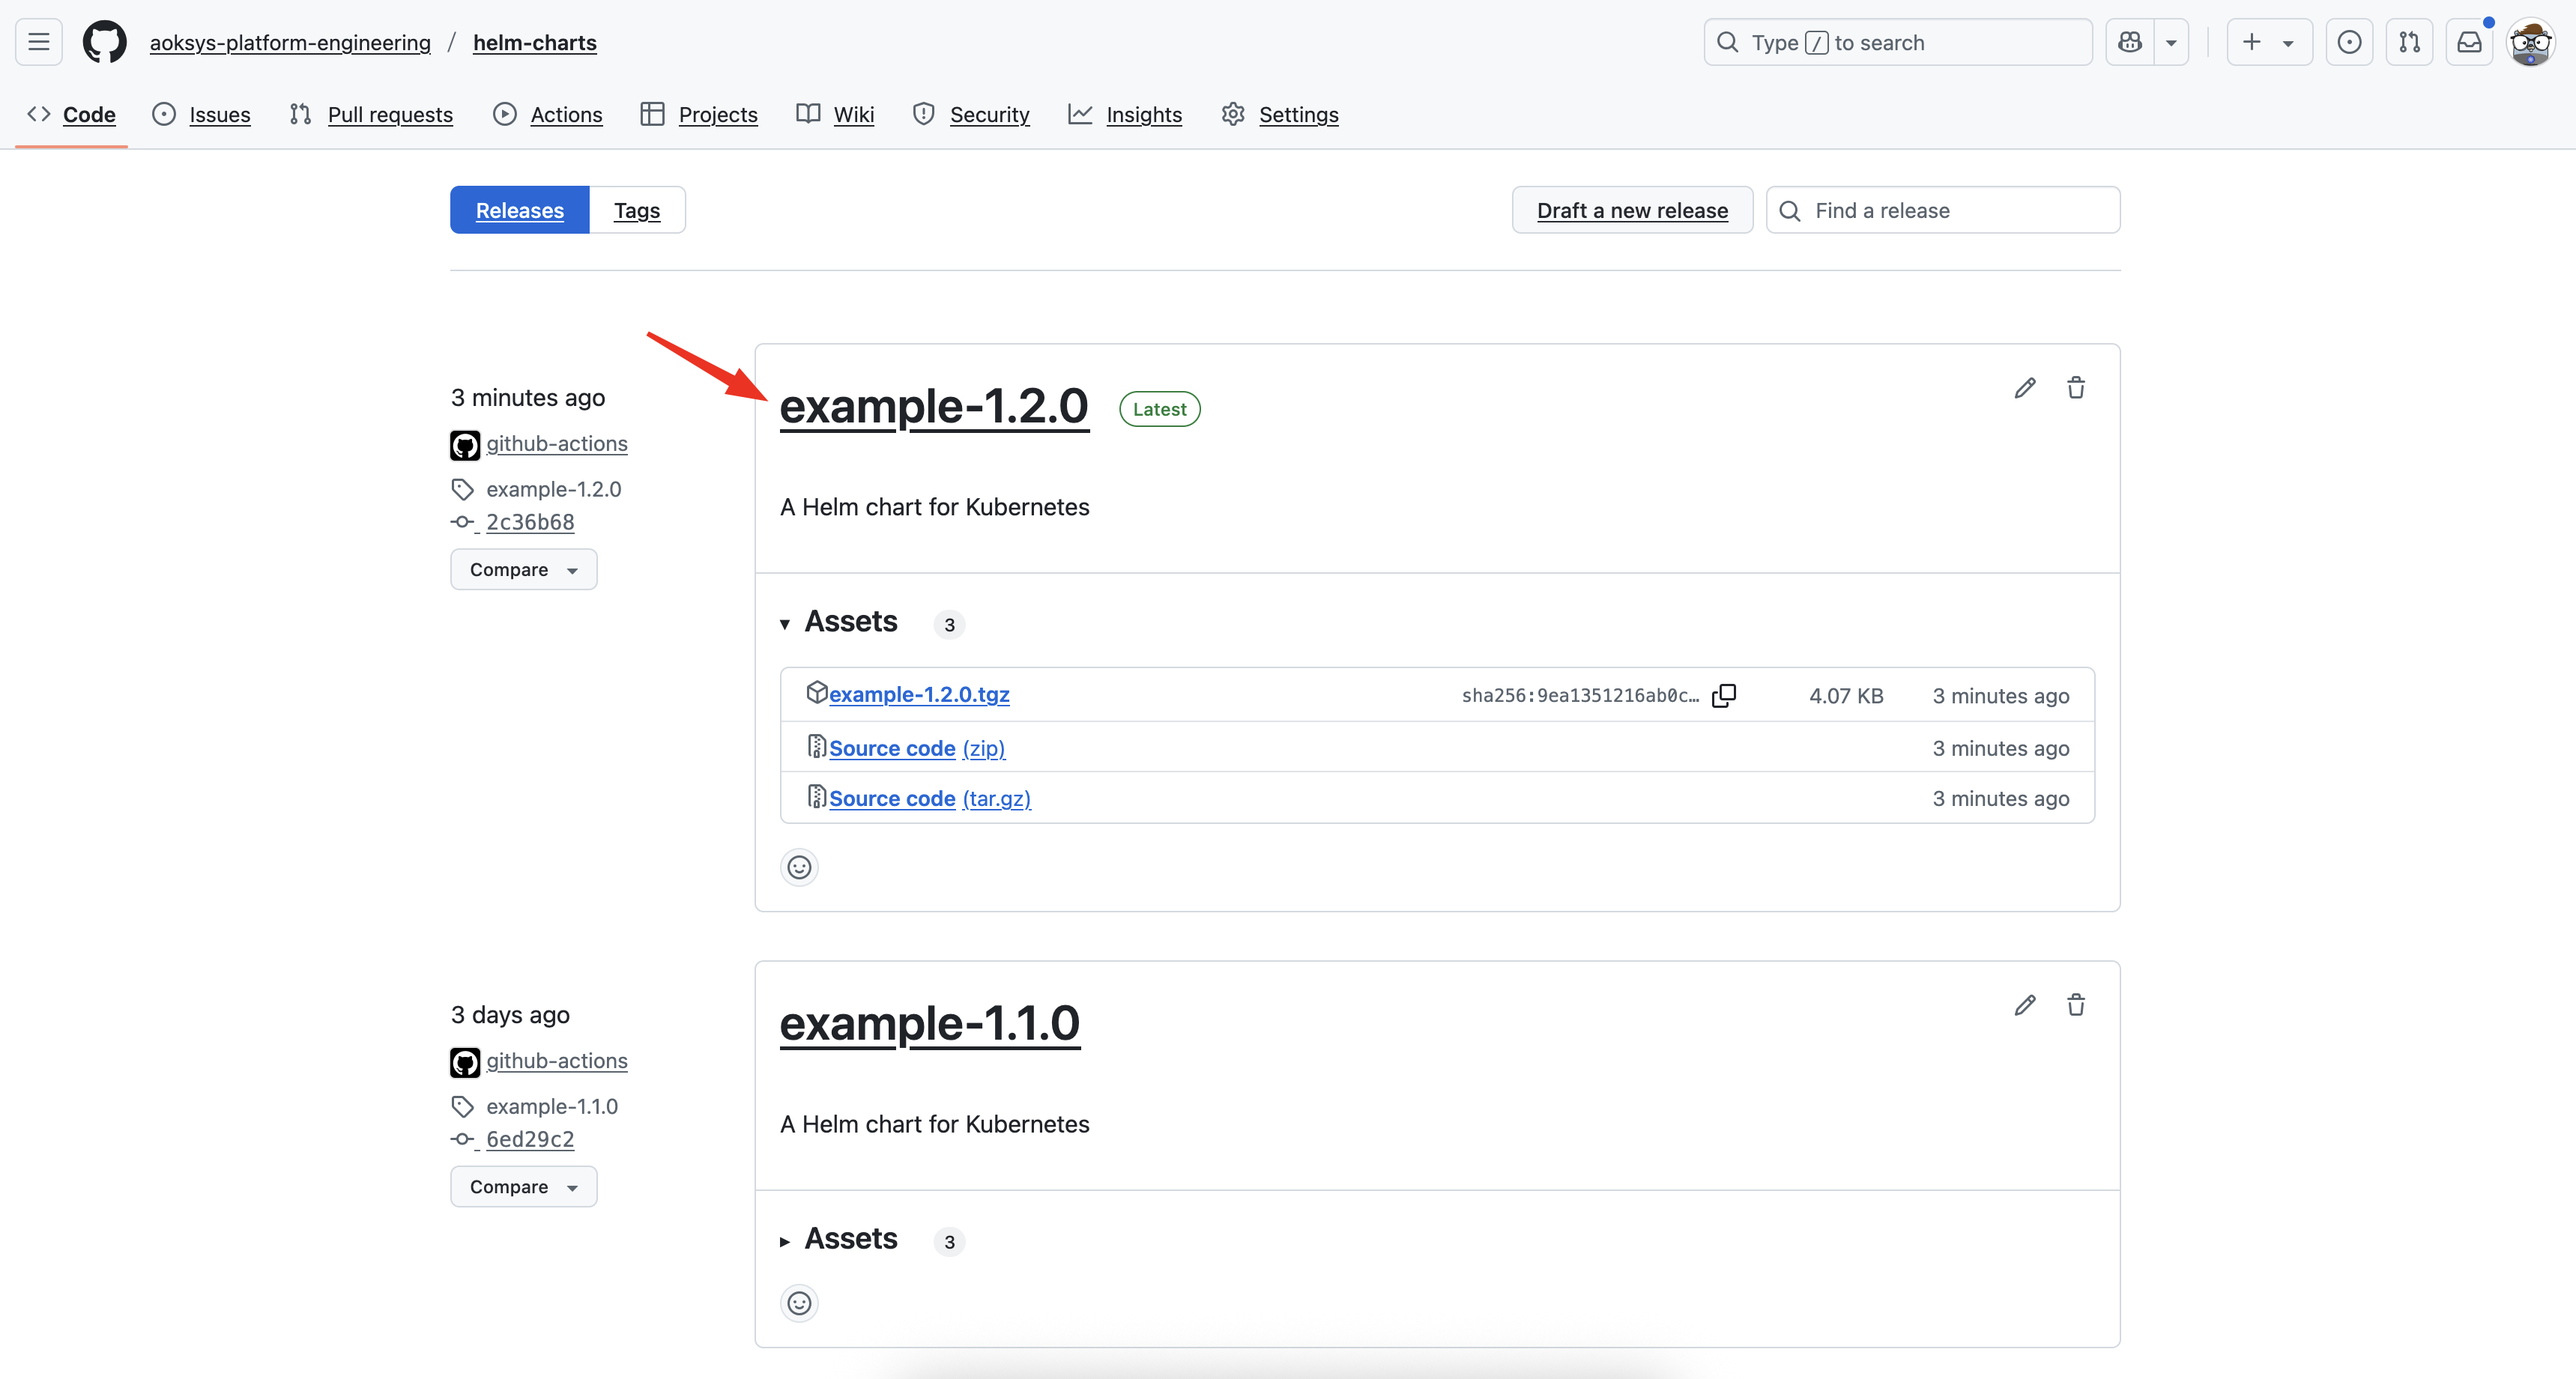
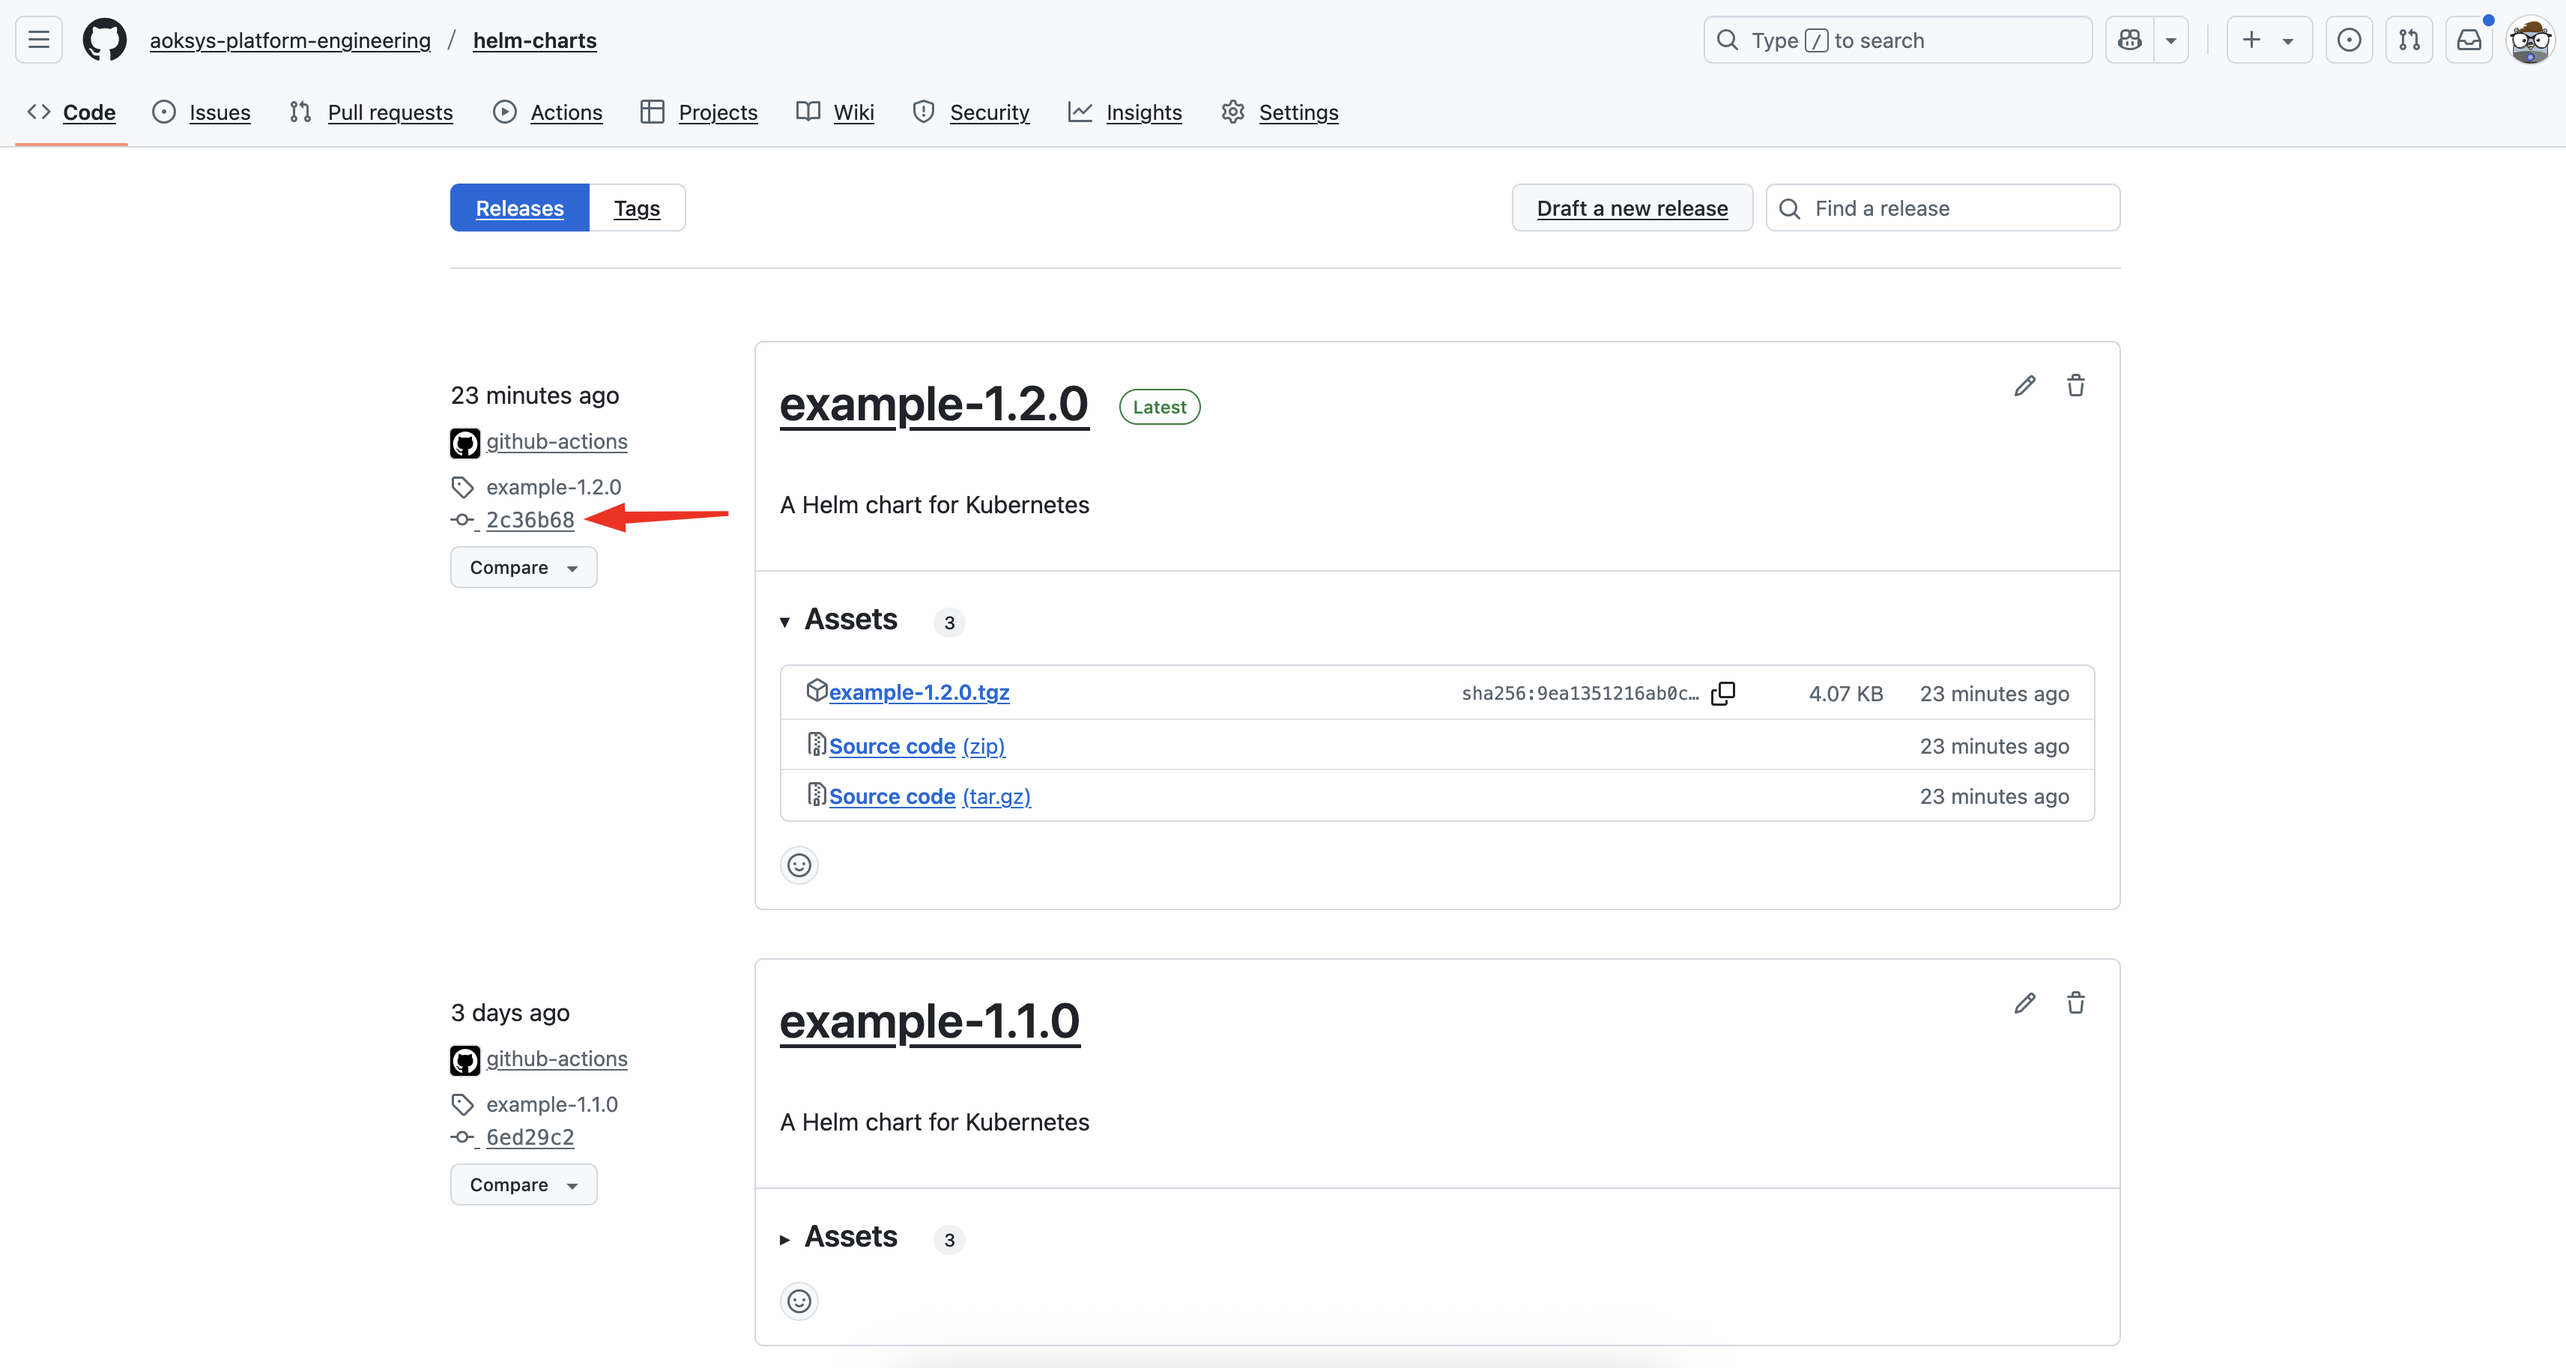
update README and rm superflous images

diff --git a/README.md b/README.md
@@ -29,14 +29,10 @@ To see those changes, click on the ``Releases`` tab:
 
 <img src="images/diff-releases-1.jpg" alt="" style="border: 1px solid black; border-radius: 4px;">
 
-Then click on a specific release:
+Then click on the commit for a specific release:
 
 <img src="images/diff-releases-2.jpg" alt="" style="border: 1px solid black; border-radius: 4px;">
 
-Next, click on the commit for that release:
+And finally, view the diffs for that release:
 
 <img src="images/diff-releases-3.jpg" alt="" style="border: 1px solid black; border-radius: 4px;">
-
-And finally, view the diffs:
-
-<img src="images/diff-releases-4.jpg" alt="" style="border: 1px solid black; border-radius: 4px;">
